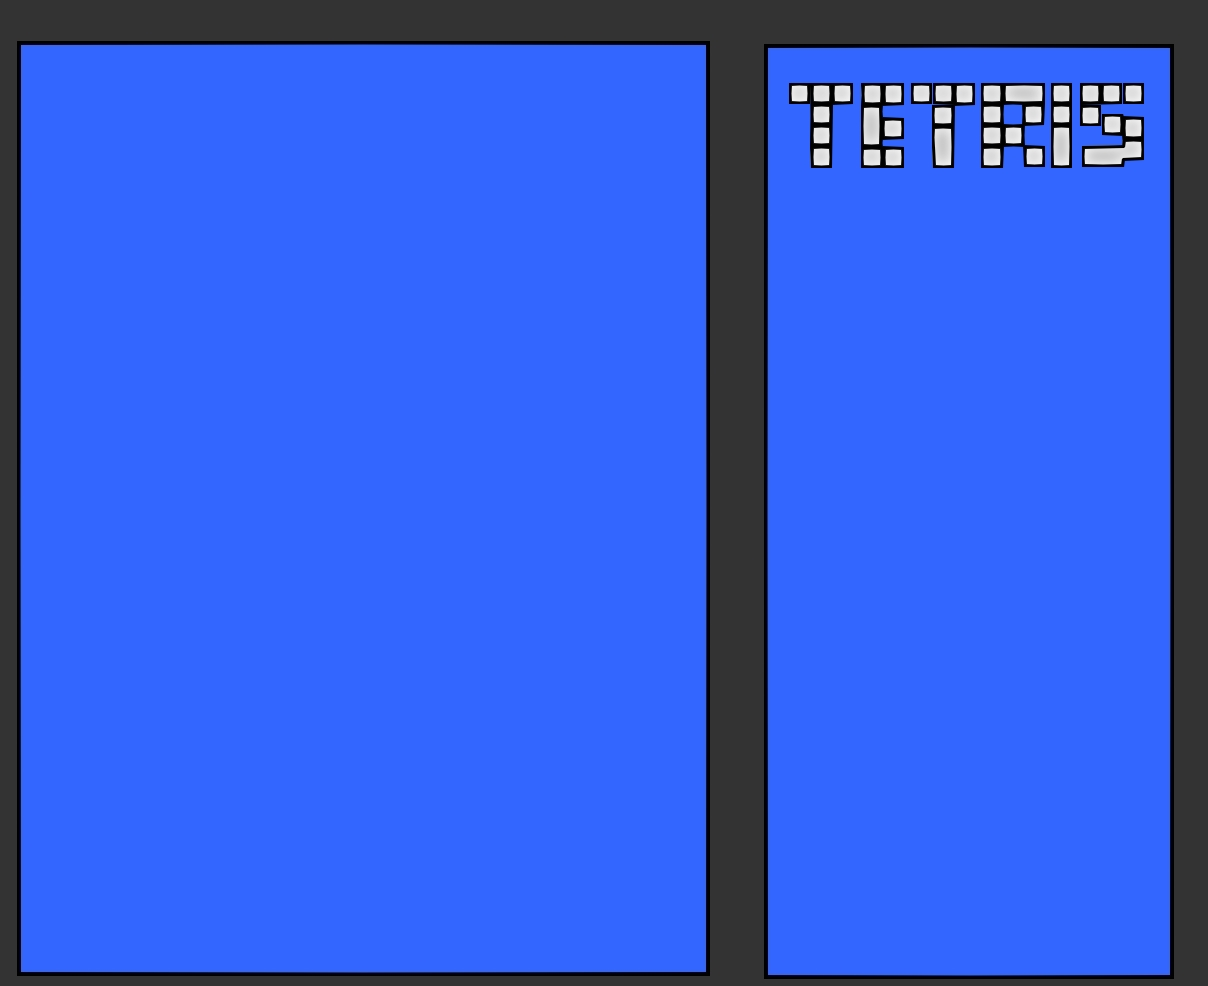
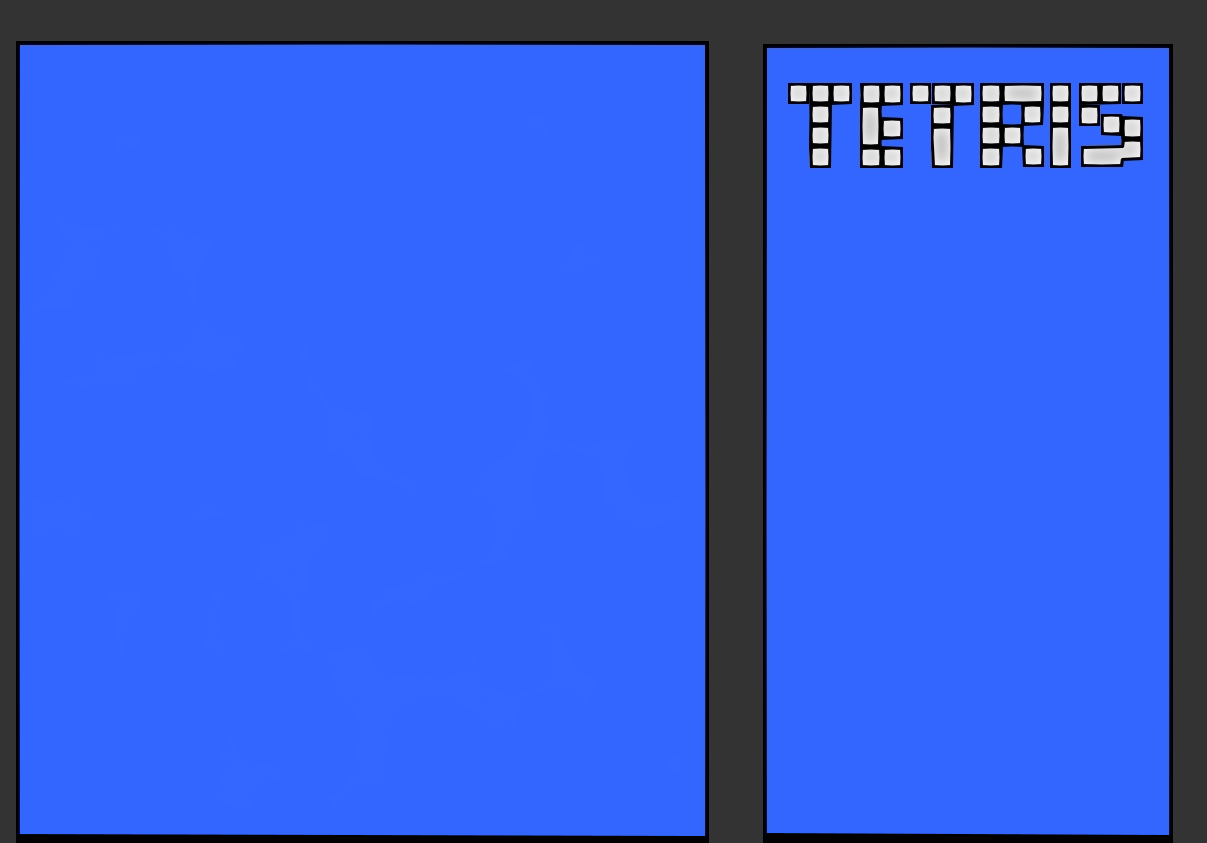
Modif fond et ajout qq fonctionnalités

Changed region(s): [[0.0, 0.0308, 0.9809, 1.0], [0.6131, 0.0308, 0.9809, 0.2159]]

diff --git a/tetris.py b/tetris.py
@@ -20,7 +20,7 @@ blanc = (255,255,255)
 noir = (0,0,0)
 
 surf_hauteur = 1208
-surf_largeur = 986
+surf_largeur = 843
 
 
 fenetre = pygame.display.set_mode((surf_hauteur, surf_largeur)) #taille fenetre
@@ -29,6 +29,8 @@ fenetre.fill(blanc)
 fond = pygame.image.load("fondtetris.png")
 cube = pygame.image.load('cubetetris.png')
 pygame.display.set_caption("Jeu de Thomas et Maxime") #nom fenetre
+carre = pygame.Surface((64,64))
+carre.fill(blanc)
 
 
 def crea_zone():
@@ -43,22 +45,51 @@ def crea_zone():
         zone.append(ligne)
     return zone
     
-
+def affichage(zone):
+    x = 32
+    for i in zone:
+        y = 50
+        for j in i:
+            if j == 1:
+                fenetre.blit(carre, (x, y))
+            y += 65
+        x += 65
             
+def bouge_carre(zone):
+    x = 65
+    carre.fill(bleu)
+    fenetre.blit(carre,(200,200))
+    continuer = True
+    while continuer:
+        for event in pygame.event.get():   
+            if event.type == pygame.K_ESCAPE:   
+                continuer = False
+            elif event.type == pygame.K_LEFT:
+                fenetre.blit(carre, (200-x,200))
+            elif event.type == pygame.K_RIGHT:
+                fenetre.blit(carre, (200+x,200))
+            elif event.type == pygame.K_DOWN:
+                fenetre.blit(carre, (200,200-x))
+    #probleme : evenements non gerés et bug boucle while
+    
+
 
 def main ():
-    #x = 0
+    x = surf_hauteur//2
+    y = 0
     zone = crea_zone()
     game_over = False
     while (game_over == False) :  #quitter boucle inf
         for event in pygame.event.get():
             if event.type == pygame.QUIT:
                 game_over = True
-            #if event.type == pygame.KEYDOWN:
-            #    if event.key == pygame.K_DOWN:
-                    
+            if event.type == pygame.KEYDOWN:
+                if event.key == pygame.K_DOWN:
+                    fenetre.blit(carre,(x, y-64))
             
         fenetre.blit(fond, (0, 0))
+        affichage(zone)
+        #bouge_carre(zone)
         pygame.display.update() #rafraichissement
 main()
 pygame.quit()
